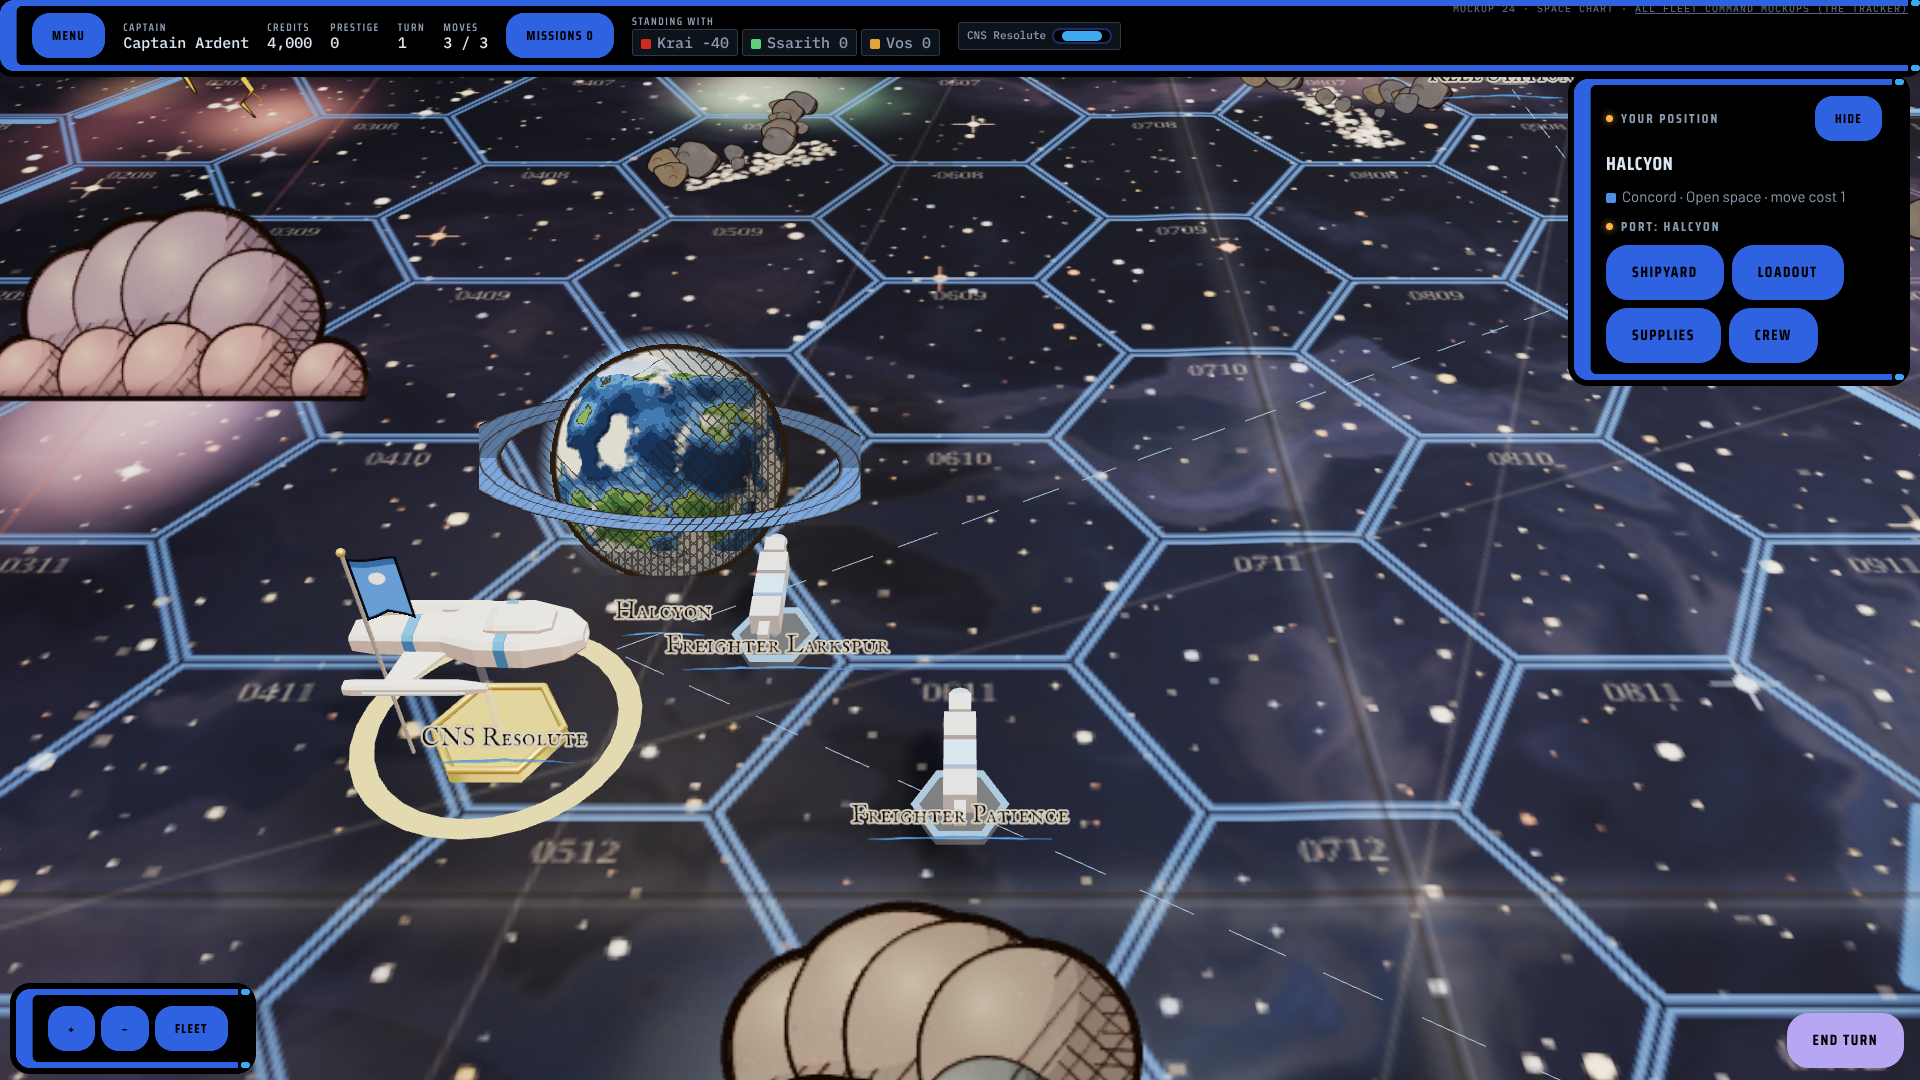
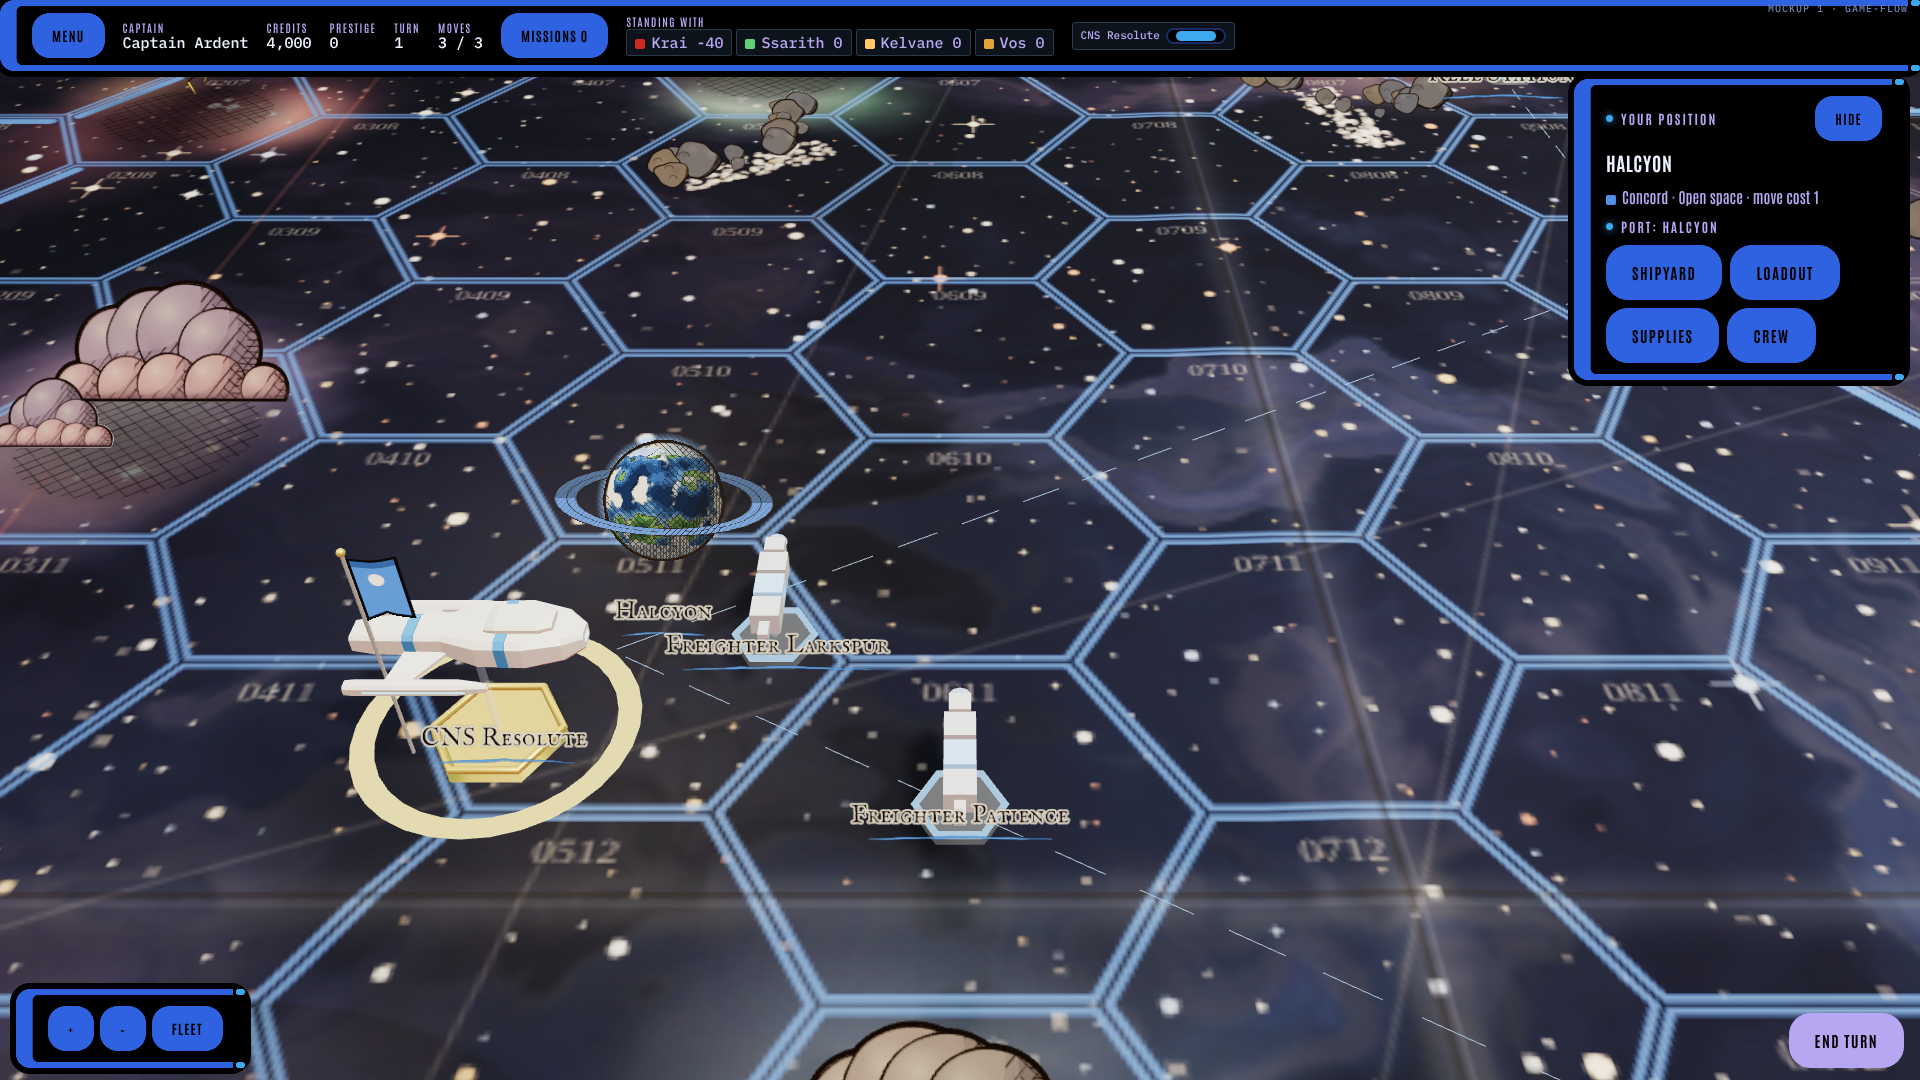
Mockup 1 v28 and the space chart (now mockup 34) v6 published; tracker v154
Claude-Session: https://claude.ai/code/session_01RGPQusydde7zVhQLFGLbYr

diff --git a/docs/mockups/tracker.html b/docs/mockups/tracker.html
@@ -116,7 +116,7 @@ dialog.modal > .list { padding: 16px; }
 // The mockups, in the order of mockup-work.md. Reviews live in the db collection `reviews`, one document per id.
 const MOCKUPS = [
   { id: 'M1', title: 'Primary game flow', change: 'game-flow', page: 'docs/mockups/game-flow.html',
-    url: 'https://claude.ai/artifact/UBbAouwAU3JvcbGf6MhzLt', published: '2026-11-08', version: 27,
+    url: 'https://claude.ai/artifact/UBbAouwAU3JvcbGf6MhzLt', published: '2026-11-08', version: 28,
     summary: 'The game\'s flow from the main menu: the faction screen, skirmish and the campaign map with missions, port and debrief; now running in the game.' },
   { id: 'M2', title: 'In-game UI', change: 'battle-console', page: 'docs/mockups/battle-console.html',
     url: 'https://claude.ai/artifact/9yertq3bYQRmFiDE7N9eBs', published: '2026-11-06', version: 86,
@@ -125,7 +125,7 @@ const MOCKUPS = [
     url: '', published: '', version: 0,
     summary: 'Ship detail level, faction design language, destructible hulls and interiors, engines, effects and hull lighting.' },
   { id: 'M4', title: 'Console skins', change: 'console-skins', page: 'docs/mockups/console-skins.html',
-    url: 'https://claude.ai/artifact/UTpgsPvZJrLfkEUmJN7CVb', published: '2026-11-08', version: 31,
+    url: 'https://claude.ai/artifact/UTpgsPvZJrLfkEUmJN7CVb', published: '2026-11-08', version: 32,
     summary: 'One UI kit in ten faction design languages, each skin built its own way, no two sharing a button, palette or icon shape.' },
   { id: 'M6', faction: 'concord', title: 'Concord line (the standard)', change: 'concord-hull-concepts', page: 'docs/mockups/concord-hull-concepts.html',
     url: 'https://claude.ai/artifact/LzraYsJq2PQLG4ioVFpfBP', published: '2026-11-04', version: 24,
@@ -179,34 +179,34 @@ const MOCKUPS = [
     url: 'https://claude.ai/artifact/Gkv9jzwEZd258noT7WGtv4', published: '2026-11-07', version: 16,
     summary: 'The four freighter picks, detailed, one for each approved faction, each longer than any warship.' },
   { id: 'M25', faction: 'axiom', title: 'Battle console: The Axiom', change: 'axiom-battle-console', page: 'docs/mockups/battle-console-axiom.html',
-    url: 'https://claude.ai/artifact/G6CFvuJLxSGsFu5y9i9fzo', published: '2026-11-08', version: 1,
+    url: 'https://claude.ai/artifact/G6CFvuJLxSGsFu5y9i9fzo', published: '2026-11-08', version: 2,
     summary: 'Flat exact vector on the void, Koch-hexagon keys, every control live.' },
   { id: 'M26', faction: 'exponent', title: 'Battle console: The Exponent', change: 'exponent-battle-console', page: 'docs/mockups/battle-console-exponent.html',
-    url: 'https://claude.ai/artifact/XWGn3TZTPcTDFbtNTf8mV2', published: '2026-11-08', version: 1,
+    url: 'https://claude.ai/artifact/XWGn3TZTPcTDFbtNTf8mV2', published: '2026-11-08', version: 2,
     summary: 'Rusted utilitarian steel overgrown with reef, veins and barnacles, every control live.' },
   { id: 'M27', faction: 'redtithe', title: 'Battle console: Red Tithe', change: 'redtithe-battle-console', page: 'docs/mockups/battle-console-redtithe.html',
-    url: 'https://claude.ai/artifact/WiQEWpfRaEN2HQvUXLxqga', published: '2026-11-08', version: 1,
+    url: 'https://claude.ai/artifact/WiQEWpfRaEN2HQvUXLxqga', published: '2026-11-08', version: 2,
     summary: 'Oak boards, tarred fields, scorched paper keys, blades and bullets, every control live.' },
   { id: 'M28', faction: 'vos', title: 'Battle console: Vos Syndicate', change: 'vos-battle-console', page: 'docs/mockups/battle-console-vos.html',
-    url: 'https://claude.ai/artifact/RAdVg9hJhGJwgukAybj5wt', published: '2026-11-08', version: 1,
+    url: 'https://claude.ai/artifact/RAdVg9hJhGJwgukAybj5wt', published: '2026-11-08', version: 2,
     summary: 'Hand-drawn ink, washes and claw tags, every control live.' },
   { id: 'M29', faction: 'kethran', title: 'Battle console: Kethran Hegemony', change: 'kethran-battle-console', page: 'docs/mockups/battle-console-kethran.html',
-    url: 'https://claude.ai/artifact/DmDc8xBHJYcRfAkdHgYy6w', published: '2026-11-08', version: 1,
+    url: 'https://claude.ai/artifact/DmDc8xBHJYcRfAkdHgYy6w', published: '2026-11-08', version: 2,
     summary: 'Armoured gunmetal plates and wedge keycaps from the Blender kit, every control live.' },
   { id: 'M30', faction: 'tarsine', title: 'Battle console: Tarsine Remnant', change: 'tarsine-battle-console', page: 'docs/mockups/battle-console-tarsine.html',
     url: 'https://claude.ai/artifact/RwHfXVD7XtsM1EjSi8tHXX', published: '2026-11-08', version: 1,
     summary: 'The Tarsine tablets and lamps from the Blender kit, every control live.' },
   { id: 'M31', faction: 'aelith', title: 'Battle console: Aelith Conclave', change: 'aelith-battle-console', page: 'docs/mockups/battle-console-aelith.html',
-    url: 'https://claude.ai/artifact/4tCTboCgm9dkeE52WcE711', published: '2026-11-08', version: 1,
+    url: 'https://claude.ai/artifact/4tCTboCgm9dkeE52WcE711', published: '2026-11-08', version: 2,
     summary: 'Rendered armour shells round vector hologram keys, every control live.' },
   { id: 'M32', faction: 'ombrai', title: 'Battle console: Ombrai', change: 'ombrai-battle-console', page: 'docs/mockups/battle-console-ombrai.html',
-    url: 'https://claude.ai/artifact/7SiSxjuoQU7uhQicQSndaP', published: '2026-11-08', version: 1,
+    url: 'https://claude.ai/artifact/7SiSxjuoQU7uhQicQSndaP', published: '2026-11-08', version: 2,
     summary: 'The Ombrai kit with moonlit vector keys on a rendered backing, every control live.' },
   { id: 'M33', faction: 'vhorr', title: 'Battle console: Vhorr Brood', change: 'vhorr-battle-console', page: 'docs/mockups/battle-console-vhorr.html',
-    url: 'https://claude.ai/artifact/MaZY7tPtShdswH2RmZqKYv', published: '2026-11-08', version: 1,
+    url: 'https://claude.ai/artifact/MaZY7tPtShdswH2RmZqKYv', published: '2026-11-08', version: 2,
     summary: "The grown organic column sculpted at the console's sizes, every control live." },
   { id: 'M34', title: 'Space chart', change: 'paper-map', page: 'docs/mockups/space-chart.html',
-    url: 'https://claude.ai/artifact/A4E9dHbWA5qdvi1Z77sAjX', published: '2026-11-08', version: 5,
+    url: 'https://claude.ai/artifact/A4E9dHbWA5qdvi1Z77sAjX', published: '2026-11-08', version: 6,
     summary: 'The campaign map as a pirate\'s chart of the stars: a printed star map with cross-hatched clouds and suns, live shader planets, fog of war, on a walnut table.' },
 ];
 

diff --git a/openspec/changes/paper-map/design.md b/openspec/changes/paper-map/design.md
@@ -61,9 +61,9 @@ stations stay as models (the owner, the same day: "The ships as their original m
 | Ink | Sepia (`#2a1b10`), the pen's line wobbling on a smooth seeded wave (never jitter), swelling and thinning with pressure, tapered at open ends, a faint second pass where it bled | Every outline |
 | Wash | Watercolour: an even coat, blooms of thicker and thinner paint, the paper's grain lifting through, pigment pooled darker at the edge | Every fill |
 | Light | From the upper left, as the lamp. Tone is built by the pen in three zones deeper into the shadow (lower right): single lines through the mid-tone, crossed in the shadow, a third set in the deepest part (owner, 2026-11-08: "More cross hatch for space terrain stuff") | Every piece |
-| Nebula cloud | A cartoon cumulus: crowns heaped at the back, a row of puffs in front overlapping them, each puff its own washed disc with its shadow crescent hatched and its edge inked, then a heavy silhouette and a flat base. The cloud's main colour low, its accent on the crowns. Three drawings per cloud, shared by its sectors | A billboard at the back of each nebula sector, 2.0-2.45 units wide, and in three sectors of five a smaller one in front, so a cloud of sectors reads as a bank |
+| Nebula cloud | A cartoon cumulus: crowns heaped at the back, a row of puffs in front overlapping them, each puff its own washed disc with its shadow crescent hatched and its edge inked, then a heavy silhouette and a flat base. The cloud's main colour low, its accent on the crowns. Three drawings per cloud, shared by its sectors | A billboard at the back of each nebula sector, 1.2-1.5 units wide, in three sectors of five a smaller one in front, so a cloud of sectors reads as a bank; under each, its shadow on the chart: a soft dark pool, cross-hatched, 1.75 by 1.55 units, over the sector |
 | Storm | The same cloud in slate, hatched heavier, a forked yellow bolt out of its base | One cloud in three (by its id); a look only, no rule changes |
-| Planet | Drawn live by a shader (`docs/mockups/lib/planet-shader.js`, below): a turning world of its kind, its light in five flat bands, the night side cross-hatched band by band, coastlines and limb inked, a ring in its holder's colour | A camera-facing quad, the disc 1.15 units across for a home world |
+| Planet | Drawn live by a shader (`docs/mockups/lib/planet-shader.js`, below): a turning world of its kind, its light in five flat bands, the night side cross-hatched band by band, coastlines and limb inked, a ring in its holder's colour | A camera-facing quad twice the disc's width (the ring fits at any tilt), the disc 0.58 units across for a home world, stood clear of the paper |
 | Sun | A disc in warm wash with a darker rim and curls of churn, sixteen rays alternating a straight spike and a wavy flame | A billboard 2.0 units wide, with its warm point light kept |
 | Asteroid | A lumpy outline, grey-brown wash, a crater or two, the dark side hatched; twelve drawings shared by every belt | Half as many rocks as the 3D belt, each a small billboard |
 | Compass rose | Two rings with ticks, sixteen points (cardinals long, half and quarter points shorter), each point half washed red and half bare, a fleur at north | Printed on a patch of bare paper in the lower left of the print |

diff --git a/docs/artifacts/game-flow/README.md b/docs/artifacts/game-flow/README.md
@@ -37,3 +37,4 @@
 - Version 25 published 2026-11-08, version id `1794096307-770d`: phones (owner, 2026-11-07, with a screenshot of a phone in portrait: "Panels on my phone stuck open, I can't see"): the sector panel has a Hide key, the map keys a Sector key to bring it back, and picking a sector opens it again; in portrait the top bar is two rows (credits, turn, moves and Missions; then prestige and the standing chips, unlabelled), not four; the corner badge sits under the bar on the left. `dom_fit.mjs` passes at desktop, phone and portrait.
 - Version 26 published 2026-11-08, version id `1794098594-ac27`: the drawn pieces (owner, 2026-11-08: "make the nebula or storm clouds like hand drawn billboard puffs of cloud. And make the planets have that hand drawn quality too", "very pirate and very space"): `docs/mockups/lib/drawn.js` draws in sepia ink and watercolour, shaded away from the lamp; on the paper chart nebulae stand as cartoon cloud billboards (one cloud in three a storm with a bolt), planets as banded worlds ringed in the holder's colour, stars as rayed suns, belts as drawn rocks; names hand-lettered in IM Fell English SC; a compass rose and rhumb lines on the print. Ships and stations stay as models. Shots `space-chart-room.png`, `space-chart-close.png`, `space-chart-drawn-pieces.png`.
 - Version 27 published 2026-11-08, version id `1794102586-278c`: the planets drawn live by our planet shader (`docs/mockups/lib/planet-shader.js`; owner, 2026-11-08: "use this to draw our planets in space ... but maybe less pixelated. More cross hatching", of Francisco Cidade's CC0 Pixel Planet Godot shader): six kinds (terran, desert, ice, lava, gas giant, moon) turning slowly, clouds at twice the speed with their shadows, polar caps, rings in the holder's colour, an atmosphere rim, 220 cells across the disc, the night side cross-hatched band by band, coastlines and limb inked; the clouds, rocks and sun cross-hatched in three zones (owner: "More cross hatch for space terrain stuff"). Shots `space-chart-planets.png`, `space-chart-planet-close.png`, `space-chart-close.png`.
+- Version 28 published 2026-11-08, version id `1794117922-0e40`: merged with main, carrying the desktop's v20 (the Kelvane Institute on the faction screen and in the campaign, never published until now) and the repository's current data (every ship's schematic, the freighters' campaign data); the planets half size and whole (owner, 2026-11-08: "planet rings and the bottom of the planet are getting clipped. they should be 1/2 size"): the shader's quad spans four radii so the ring fits, stood clear of the paper; the clouds about 60% of their size, each laying a soft cross-hatched shadow over its sector ("can the clouds be smaller? and cast a shadow over the area of the map which they occupy?").

diff --git a/docs/artifacts/space-chart/README.md b/docs/artifacts/space-chart/README.md
@@ -19,3 +19,4 @@ Numbered 24 when first published; renumbered 34 on 2026-11-08, when the freighte
 - Version 3 published 2026-11-08, version id `1794096305-9138`: phones (owner, 2026-11-07, with a screenshot of a phone in portrait: "Panels on my phone stuck open, I can't see"): the sector panel has a Hide key, the map keys a Sector key to bring it back, and picking a sector opens it again; in portrait the top bar is two rows (credits, turn, moves and Missions; then prestige and the standing chips, unlabelled), not four; the corner badge sits under the bar on the left. `dom_fit.mjs` passes at desktop, phone and portrait.
 - Version 4 published 2026-11-08, version id `1794098592-e375`: the drawn pieces (owner, 2026-11-08: "make the nebula or storm clouds like hand drawn billboard puffs of cloud. And make the planets have that hand drawn quality too", "very pirate and very space"): `docs/mockups/lib/drawn.js` draws in sepia ink and watercolour, shaded away from the lamp; on the paper chart nebulae stand as cartoon cloud billboards (one cloud in three a storm with a bolt), planets as banded worlds ringed in the holder's colour, stars as rayed suns, belts as drawn rocks; names hand-lettered in IM Fell English SC; a compass rose and rhumb lines on the print. Ships and stations stay as models. Shots `space-chart-room.png`, `space-chart-close.png`, `space-chart-drawn-pieces.png`.
 - Version 5 published 2026-11-08, version id `1794102584-966d`: the planets drawn live by our planet shader (`docs/mockups/lib/planet-shader.js`; owner, 2026-11-08: "use this to draw our planets in space ... but maybe less pixelated. More cross hatching", of Francisco Cidade's CC0 Pixel Planet Godot shader): six kinds (terran, desert, ice, lava, gas giant, moon) turning slowly, clouds at twice the speed with their shadows, polar caps, rings in the holder's colour, an atmosphere rim, 220 cells across the disc, the night side cross-hatched band by band, coastlines and limb inked; the clouds, rocks and sun cross-hatched in three zones (owner: "More cross hatch for space terrain stuff"). Shots `space-chart-planets.png`, `space-chart-planet-close.png`, `space-chart-close.png`.
+- Version 6 published 2026-11-08, version id `1794117925-4836`: renumbered mockup 34 (its badge says so); the planets half size and whole (owner, 2026-11-08: "planet rings and the bottom of the planet are getting clipped. they should be 1/2 size"): the shader's quad spans four radii so the ring fits, stood clear of the paper; the clouds about 60% of their size, each laying a soft cross-hatched shadow over its sector ("can the clouds be smaller? and cast a shadow over the area of the map which they occupy?").

diff --git a/mockup-work.md b/mockup-work.md
@@ -53,7 +53,7 @@ account and every link here is updated.
 | 31 | Battle console: Aelith Conclave | Drafted (2026-11-08, v1). Listed (2026-11-07) (owner, 2026-11-07: "Let's make a big push and get all these unbuilt uis built in a mockup"): the battle console in the Aelith Conclave skin from mockup 4 | `aelith-battle-console` | `docs/mockups/battle-console-aelith.html` (written by `tools/mockups/skin_page.py`) | https://claude.ai/artifact/4tCTboCgm9dkeE52WcE711 |
 | 32 | Battle console: Ombrai | Drafted (2026-11-08, v1). Listed (2026-11-07) (owner, 2026-11-07: "Let's make a big push and get all these unbuilt uis built in a mockup"): the battle console in the Ombrai skin from mockup 4 | `ombrai-battle-console` | `docs/mockups/battle-console-ombrai.html` (written by `tools/mockups/skin_page.py`) | https://claude.ai/artifact/7SiSxjuoQU7uhQicQSndaP |
 | 33 | Battle console: Vhorr Brood | Drafted (2026-11-08, v1). Listed (2026-11-07) (owner, 2026-11-07: "Let's make a big push and get all these unbuilt uis built in a mockup"): the battle console in the Vhorr Brood skin from mockup 4 | `vhorr-battle-console` | `docs/mockups/battle-console-vhorr.html` (written by `tools/mockups/skin_page.py`) | https://claude.ai/artifact/MaZY7tPtShdswH2RmZqKYv |
-| 34 | Space chart: the campaign's paper star chart as its own page, opening straight onto the map (owner, 2026-11-07: "Our space chart mockup is not available to me as an artifact, please make it") | Drafted (2026-11-08, v5: shader planets, heavier cross-hatching; v4: hand-drawn clouds, storms, planets, suns and rocks, a compass rose; v3: the sector panel hides on a phone, a two-row top bar; v2: works on phones; v1: written from mockup 1 by `tools/mockups/chart_page.py`, so it runs mockup 1's code) | `paper-map` | `docs/mockups/space-chart.html` | https://claude.ai/artifact/A4E9dHbWA5qdvi1Z77sAjX |
+| 34 | Space chart: the campaign's paper star chart as its own page, opening straight onto the map (owner, 2026-11-07: "Our space chart mockup is not available to me as an artifact, please make it") | Drafted (2026-11-08, v6: renumbered 34, planets half size and whole, smaller clouds with hatched shadows; v5: shader planets, heavier cross-hatching; v4: hand-drawn clouds, storms, planets, suns and rocks, a compass rose; v3: the sector panel hides on a phone, a two-row top bar; v2: works on phones; v1: written from mockup 1 by `tools/mockups/chart_page.py`, so it runs mockup 1's code) | `paper-map` | `docs/mockups/space-chart.html` | https://claude.ai/artifact/A4E9dHbWA5qdvi1Z77sAjX |
 
 New mockups are added at the bottom with the owner's words, never renumbered.
 

diff --git a/docs/artifacts/mockup-tracker/README.md b/docs/artifacts/mockup-tracker/README.md
@@ -145,3 +145,4 @@
 - 2026-11-08, cloud session: version 149, version id `1794098613-9364`: M1 v26 and M24 v4 (hand-drawn clouds, storms, planets, suns and rocks; the Space Chart summary).
 - 2026-11-08, cloud session: version 150, version id `1794102613-3191`: M1 v27 and M24 v5 (shader planets, heavier cross-hatching; the Space Chart summary).
 - Artifact versions 151 and 152 (2026-11-08, cloud session, version ids `1794107972-5c0a`, `1794107983-6a0f`; M4 at v31): the battle consoles for the Axiom, Exponent, Red Tithe, Vos, Kethran, Tarsine, Aelith, Ombrai and Vhorr (M25-M33), each behind its own faction card; merged onto the live version with another session's edits (M1 v27, M20 v4, M24 Space chart, whose page is on branch `claude/brave-faraday-ilpu2q`).
+- 2026-11-08, cloud session: version 154, version id `1794117974-ada4`: merged onto the live version `1794116455-0531` (M4 v32, battle consoles 25-29 and 31-33 at v2); M1 v28; M24 is the freighters (v16, from PR #54); the Space Chart moved to M34 at v6.

diff --git a/openspec/changes/paper-map/tasks.md b/openspec/changes/paper-map/tasks.md
@@ -24,6 +24,9 @@
 - [x] 1.12 The planets drawn live by our planet shader (`docs/mockups/lib/planet-shader.js`, after Francisco Cidade's CC0 Pixel
   Planet: six kinds, spinning, clouds, caps, rings, finer pixels, cross-hatched night sides), and the clouds, rocks and sun
   cross-hatched in three zones (owner, 2026-11-08: "More cross hatch", "less pixelated") (mockup 1 v27, mockup 34 v5)
+- [x] 1.13 Planets half size and whole, clouds smaller with hatched shadows over their sectors (owner, 2026-11-08: "planet rings
+  and the bottom of the planet are getting clipped. they should be 1/2 size", "can the clouds be smaller? and cast a shadow") (mockup 1
+  v28, mockup 34 v6)
 
 ## 2. After the owner's notes
 
